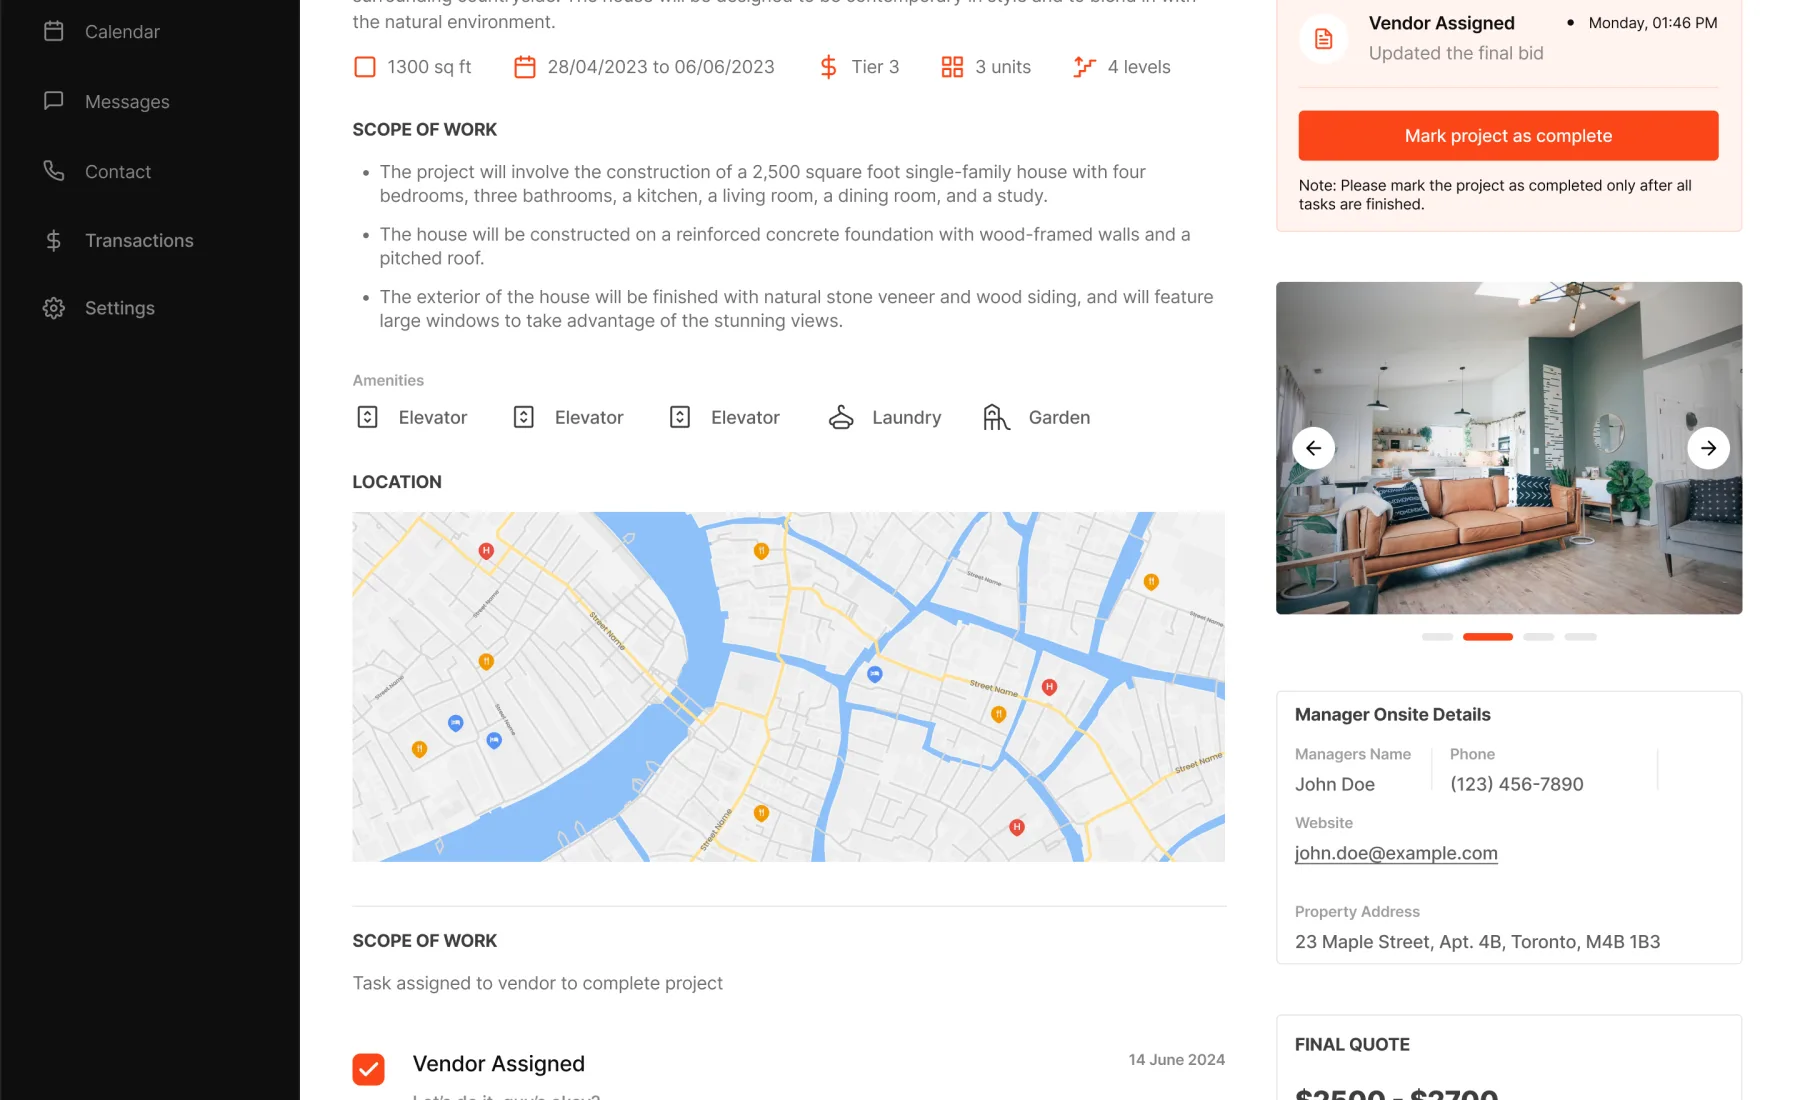
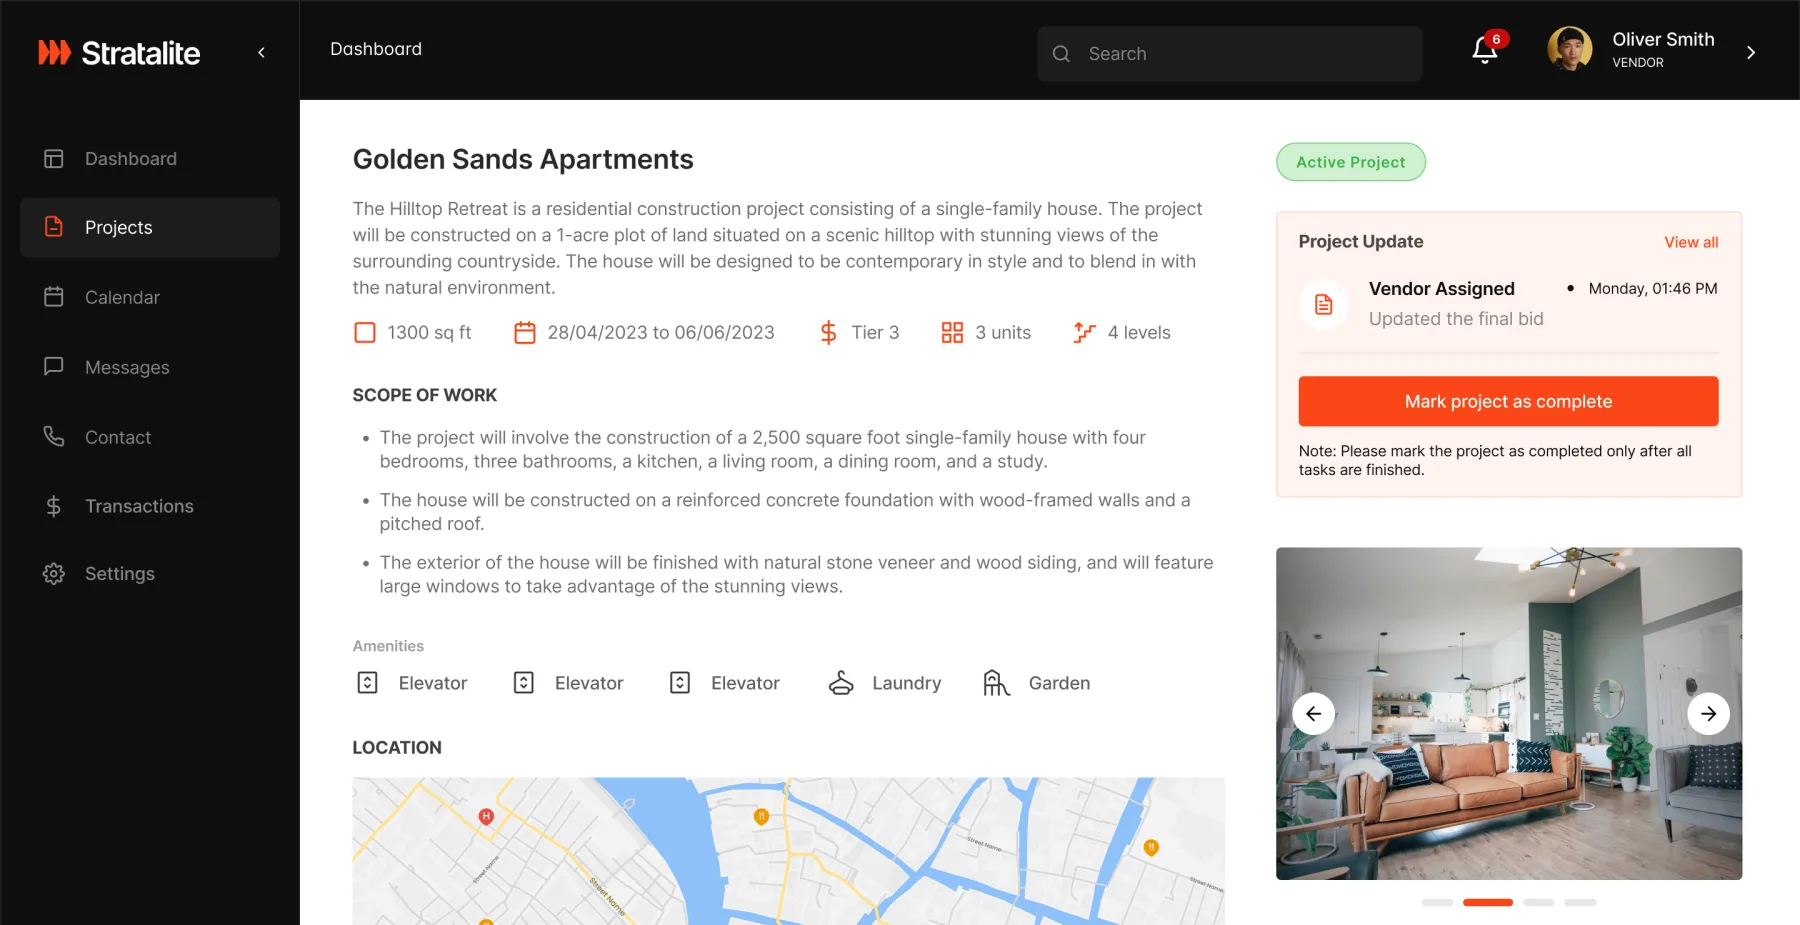
Stratalite: restore Mark as complete screen, cropped above the sample manager details

diff --git a/scripts/design-studies/stratalite.js b/scripts/design-studies/stratalite.js
@@ -4,7 +4,7 @@ const img = (name) => `/design/stratalite/${name}.webp`;
 
 export default {
   slug: 'stratalite',
-  version: 'v1.5',
+  version: 'v1.6',
   order: 1,
   published: true,
   title: 'Stratalite',
@@ -281,6 +281,11 @@ Later I mapped the live product one role at a time: **237 flows** across 5 roles
 **Why:** payment data is captured once, at the right moment. That one amount later fed 6 of the 10 company-admin dashboard numbers.`,
       layout: 'grid-2',
       images: [
+        {
+          src: img('mark-complete'),
+          alt: "Vendor's project page with the Mark project as complete button and a note to use it only after all tasks are finished",
+          caption: 'Design mockup with sample data: the vendor\'s "Mark project as complete", with a note to use it only once every task is done.'
+        },
         {
           src: img('proceed-with-invoice'),
           alt: 'All tasks ticked, and a Proceed with Invoice card on the vendor project page',
